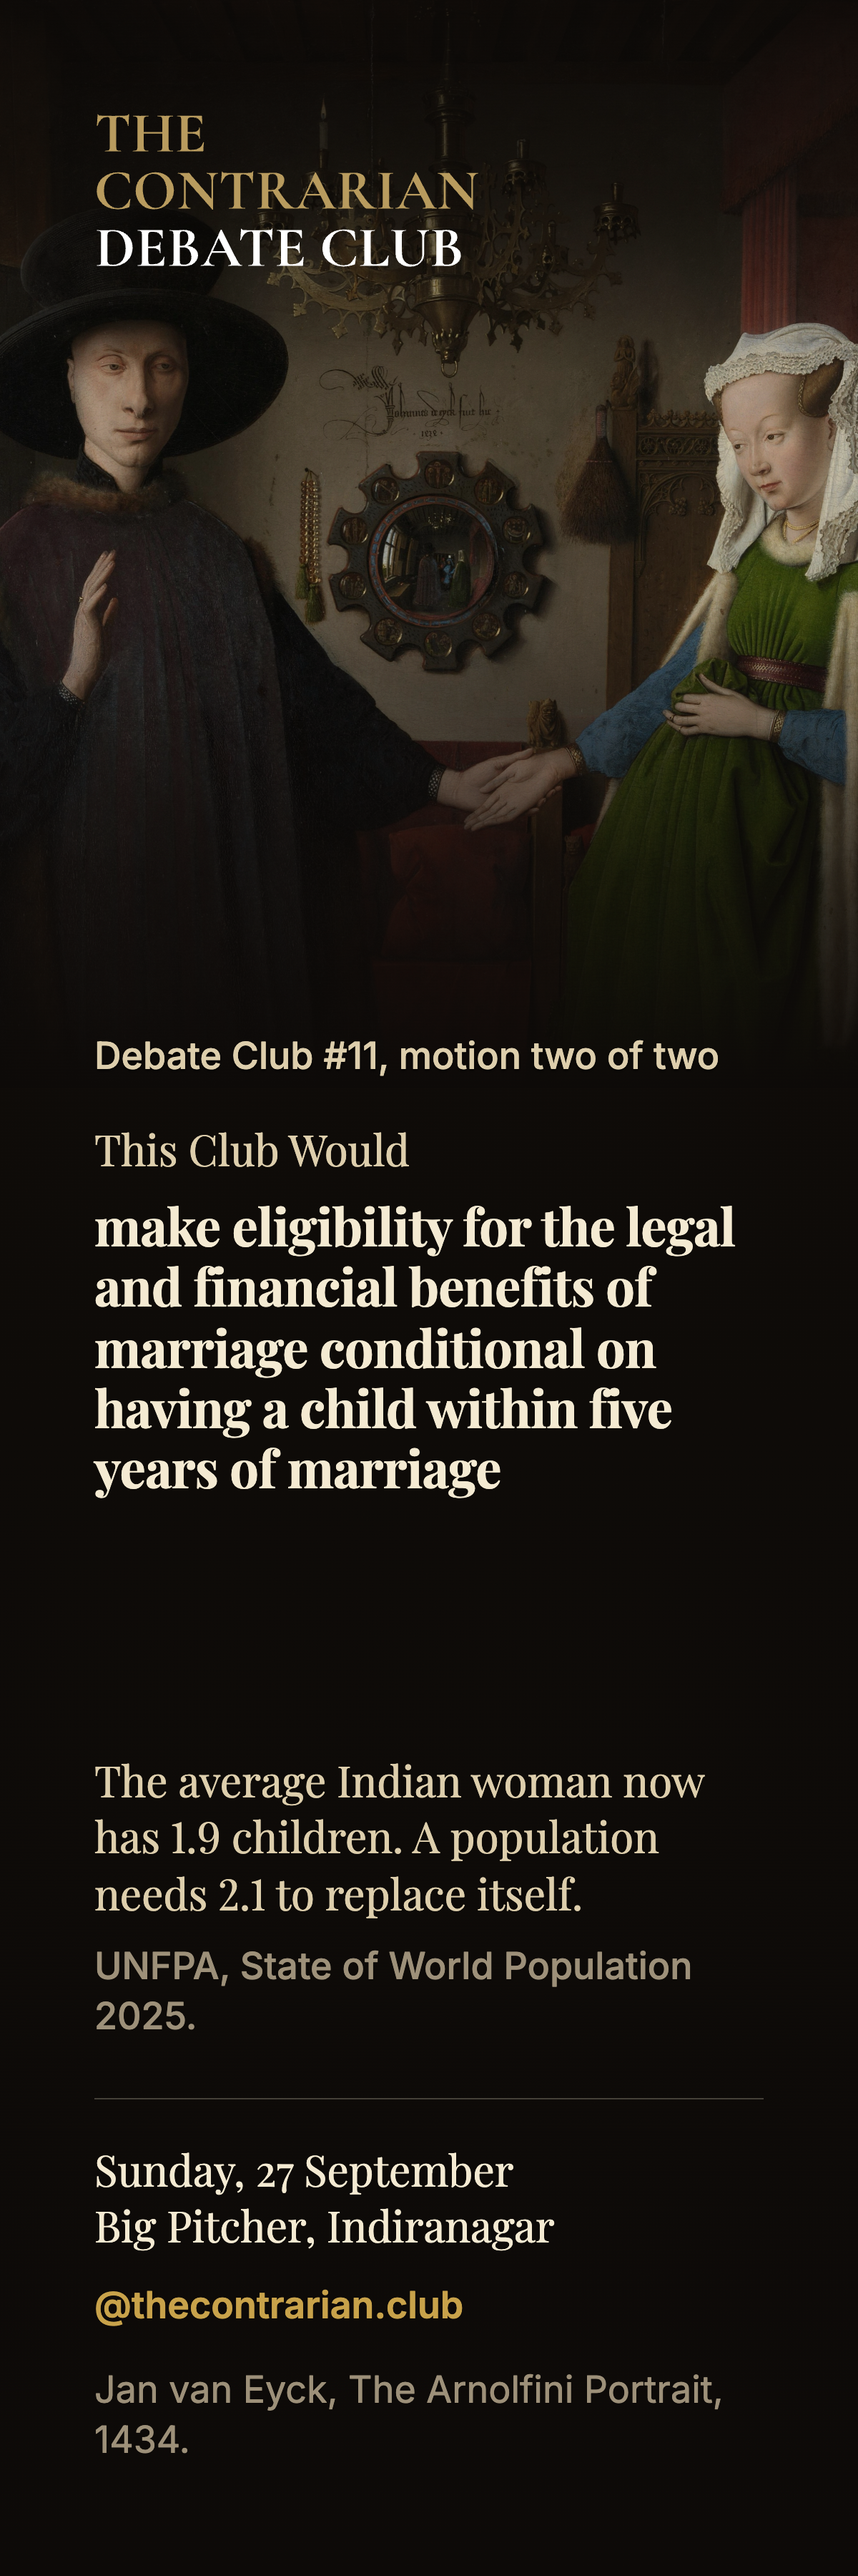
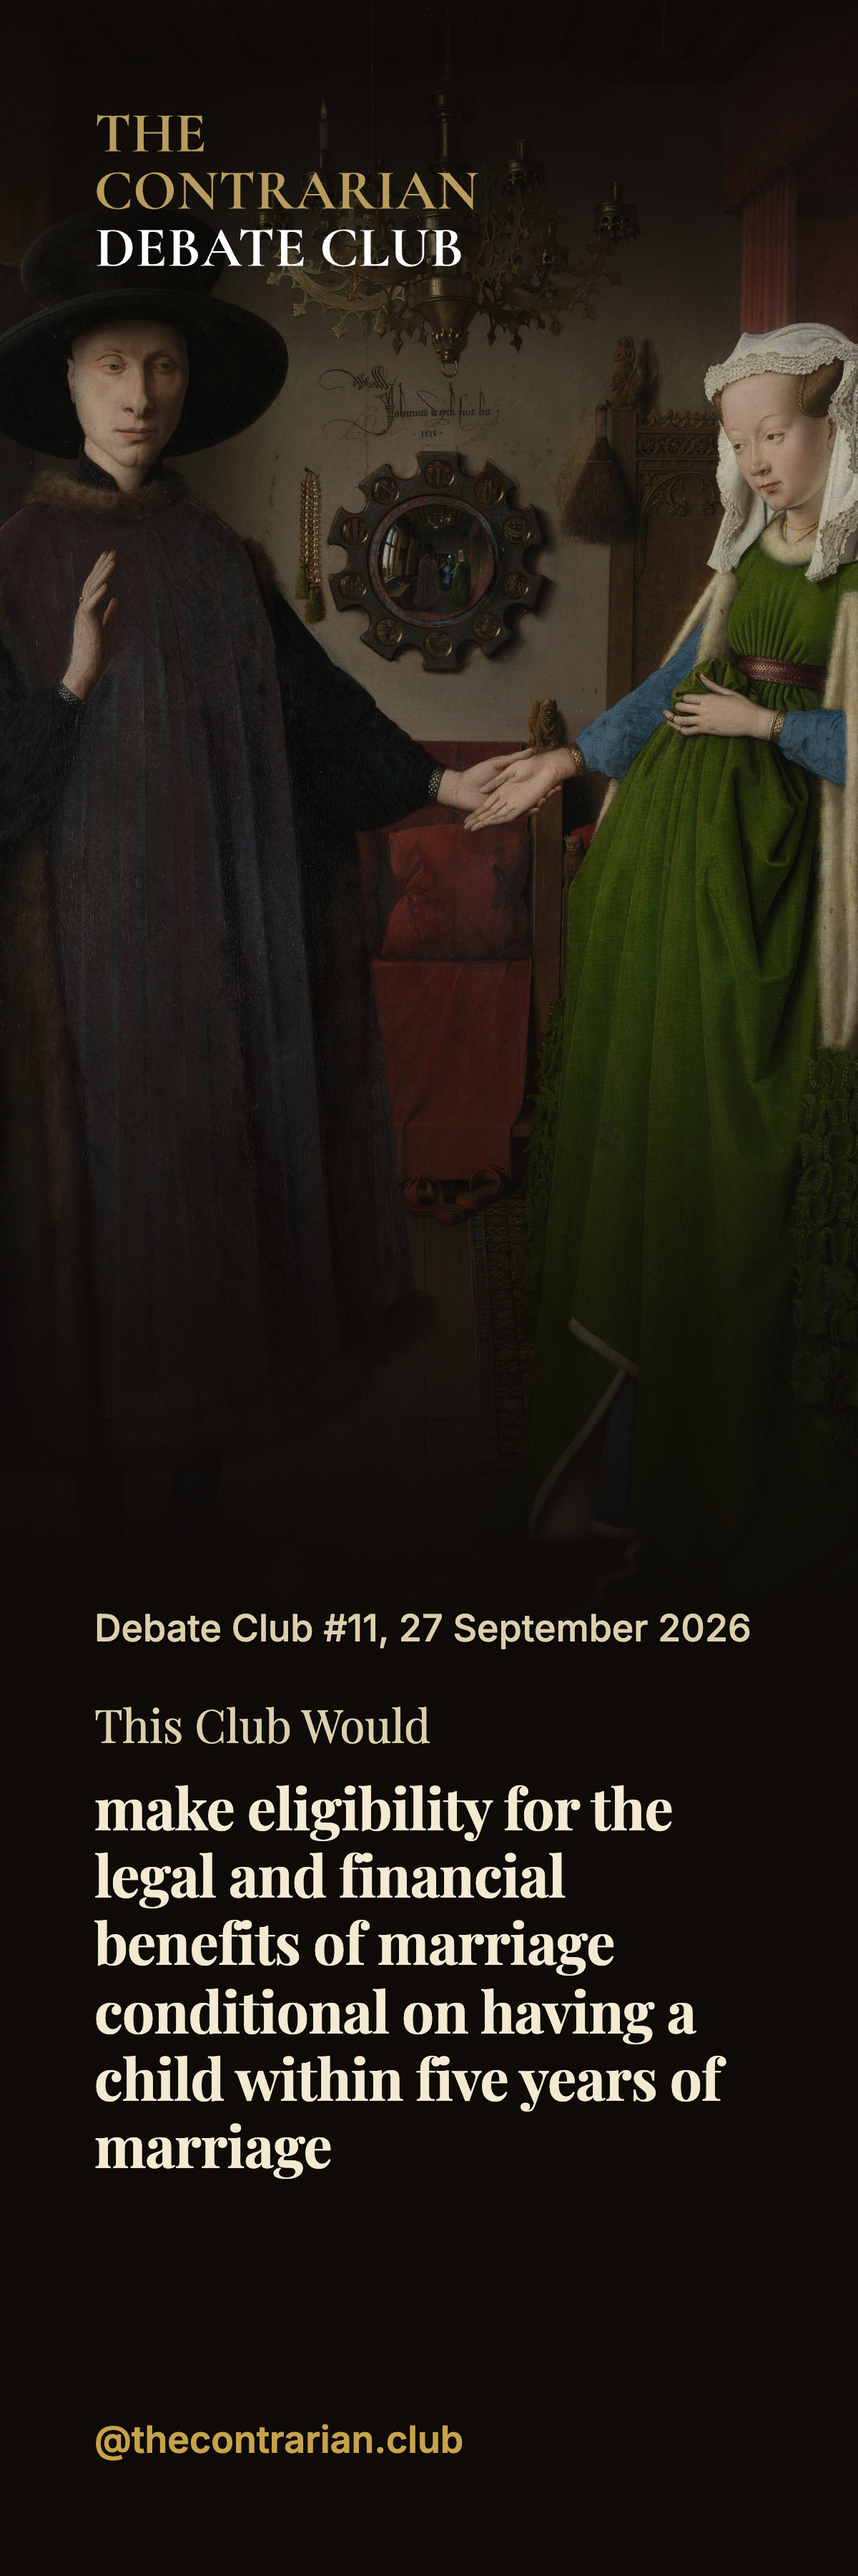
fix(posters): cut the debate 11 bookmarks down to the motion
Drop the fact, source, venue, credit and rule. What is left is the lockup,
the painting, a date line, the motion and the handle, with the painting
taking the height that was freed.

diff --git a/posters/works/2026-09-27-debate-11-bookmarks/slides.tsx b/posters/works/2026-09-27-debate-11-bookmarks/slides.tsx
@@ -22,22 +22,24 @@ import "./slides.css";
 //                   Each is the painting its motion's campaign used: Bruegel's
 //                   carnival from the poster for motion one, the Arnolfini
 //                   couple from the carousel for motion two.
-//   The label.      "Debate Club #11" and which motion it is, in plain
-//                   sentence case. No numeral.
+//   The date line.  "Debate Club #11" and the date, in plain sentence case.
+//                   The date is what makes it a keepsake a year on.
 //   The motion.     Verbatim, the wording the room votes on, under the club's
-//                   lead-in set smaller in the same face. Nothing on either
-//                   piece is larger.
-//   The fact.       One, with its source under it in the smallest type.
-//   The foot.       A plain hairline, the night and the room, then the handle.
+//                   lead-in set smaller in the same face. The only real text
+//                   on the piece.
+//   The handle.     At the foot, the one thing asked of a person afterwards,
+//                   and the only gold on the piece.
 //
-//   Gold marks one thing on each piece: the handle, the one thing a person is
-//   asked to do after the night. See "Avoid AI design tells" in the root
+//   Five things and no more: the lockup, the painting, the date line, the
+//   motion and the handle. An earlier cut also carried a fact, its source, the
+//   venue and a picture credit, and read as a flyer rather than a keepsake.
+//   The arguing is the handout's job. See "Avoid AI design tells" in the root
 //   CLAUDE.md for what is deliberately not here.
 //
 // THE ONE VARIABLE
 //
 // The motions are different lengths, so each sets its own size and the
-// painting takes whatever height is left. The sentence is fixed and the
+// painting takes the height it is given above them. The sentence is fixed and the
 // picture yields, not the reverse.
 
 /** Every horizontal inset, in px at 300ppi. 66px is 0.22in: clear of the
@@ -55,8 +57,6 @@ export interface Plate {
   ratio: number;
   /** the treatment class in slides.css */
   art: string;
-  /** what the picture is, printed small under the foot */
-  credit: string;
 }
 
 /** Where in the painting to centre, and how far in. x and y are fractions of
@@ -129,10 +129,6 @@ export function MotionBookmark({
   formula,
   motion,
   motionSize,
-  fact,
-  source,
-  when,
-  where,
   handle,
   bleed = 0,
 }: {
@@ -145,10 +141,6 @@ export function MotionBookmark({
   /** the claim, worded exactly as the room will vote on it */
   motion: ReactNode;
   motionSize: number;
-  fact: string;
-  source: string;
-  when: string;
-  where: string;
   handle: string;
   bleed?: number;
 }) {
@@ -182,14 +174,14 @@ export function MotionBookmark({
             margin: 0,
             fontFamily: "var(--cc-font-display)",
             fontWeight: 400,
-            fontSize: 30,
+            fontSize: 32,
             lineHeight: 1.25,
             color: "var(--cc-parchment)",
           }}
         >
           {formula}
         </p>
-        <Gap h={12} />
+        <Gap h={14} />
         <h1
           style={{
             margin: 0,
@@ -206,41 +198,7 @@ export function MotionBookmark({
 
         <div style={{ flex: 1, minHeight: 40 }} />
 
-        <p
-          style={{
-            margin: 0,
-            fontFamily: "var(--cc-font-display)",
-            fontSize: 30,
-            lineHeight: 1.32,
-            fontVariantNumeric: "lining-nums",
-            color: "var(--cc-parchment)",
-          }}
-        >
-          {fact}
-        </p>
-        <Gap h={12} />
-        <p style={SMALL}>{source}</p>
-
-        <Gap h={40} />
-        <div className="bm11-rule" />
-        <Gap h={30} />
-        <p
-          style={{
-            margin: 0,
-            fontFamily: "var(--cc-font-display)",
-            fontSize: 30,
-            lineHeight: 1.3,
-            color: "var(--cc-ivory)",
-          }}
-        >
-          {when}
-          <br />
-          {where}
-        </p>
-        <Gap h={18} />
         <p style={{ ...SMALL, fontWeight: 600, color: "var(--cc-gold)" }}>{handle}</p>
-        <Gap h={24} />
-        <p style={{ ...SMALL, fontWeight: 400 }}>{plate.credit}</p>
         <Gap h={78} />
       </div>
     </div>

diff --git a/posters/works/2026-09-27-debate-11-bookmarks/spec.tsx b/posters/works/2026-09-27-debate-11-bookmarks/spec.tsx
@@ -12,17 +12,6 @@ import { MotionBookmark, type Plate } from "./slides";
 // handouts/2026-09-27-debate-11-*/debate.js; if a motion changes there, it
 // changes here.
 //
-// The facts, one each:
-//
-//   I   anti-Indian posts on X nearly tripled   Network Contagion Research
-//       in 2025                                 Institute, 11 March 2026. The
-//                                               same source as the motion one
-//                                               carousel.
-//   II  1.9 children per woman in India;        UNFPA, State of World
-//       2.1 is replacement                      Population 2025. The same
-//                                               source as the marriage
-//                                               carousel.
-//
 // The pictures, both public domain, both the same files their campaigns used:
 //
 //   carnival   Bruegel, The Fight Between Carnival and Lent, 1559. Cut in on
@@ -36,18 +25,15 @@ const carnival: Plate = {
   src: carnivalSrc,
   ratio: 3000 / 2145,
   art: "bm11-art-carnival",
-  credit: "Pieter Bruegel the Elder, The Fight Between Carnival and Lent, 1559.",
 };
 
 const arnolfini: Plate = {
   src: arnolfiniSrc,
   ratio: 3801 / 5200,
   art: "bm11-art-arnolfini",
-  credit: "Jan van Eyck, The Arnolfini Portrait, 1434.",
 };
 
-const WHEN = "Sunday, 27 September";
-const WHERE = "Big Pitcher, Indiranagar";
+const LABEL = "Debate Club #11, 27 September 2026";
 const HANDLE = "@thecontrarian.club";
 
 const work: WorkSpec = {
@@ -63,15 +49,11 @@ const work: WorkSpec = {
           bleed={format.bleed}
           plate={carnival}
           crop={{ x: 0.38, y: 0.72, scale: 3.4 }}
-          plateHeight={820}
-          label="Debate Club #11, motion one of two"
+          plateHeight={1200}
+          label={LABEL}
           formula="This Club Believes that"
           motion={<>Indians should sacrifice public festival celebrations abroad to protect India&rsquo;s global image</>}
-          motionSize={42}
-          fact="Anti-Indian posts on X nearly tripled in 2025."
-          source="Network Contagion Research Institute, March 2026."
-          when={WHEN}
-          where={WHERE}
+          motionSize={48}
           handle={HANDLE}
         />
       ),
@@ -84,8 +66,8 @@ const work: WorkSpec = {
           bleed={format.bleed}
           plate={arnolfini}
           crop={{ x: 0.5, y: 0, scale: 1.6 }}
-          plateHeight={760}
-          label="Debate Club #11, motion two of two"
+          plateHeight={1160}
+          label={LABEL}
           formula="This Club Would"
           motion={
             <>
@@ -93,11 +75,7 @@ const work: WorkSpec = {
               having a child within five years of marriage
             </>
           }
-          motionSize={36}
-          fact="The average Indian woman now has 1.9 children. A population needs 2.1 to replace itself."
-          source="UNFPA, State of World Population 2025."
-          when={WHEN}
-          where={WHERE}
+          motionSize={40}
           handle={HANDLE}
         />
       ),
